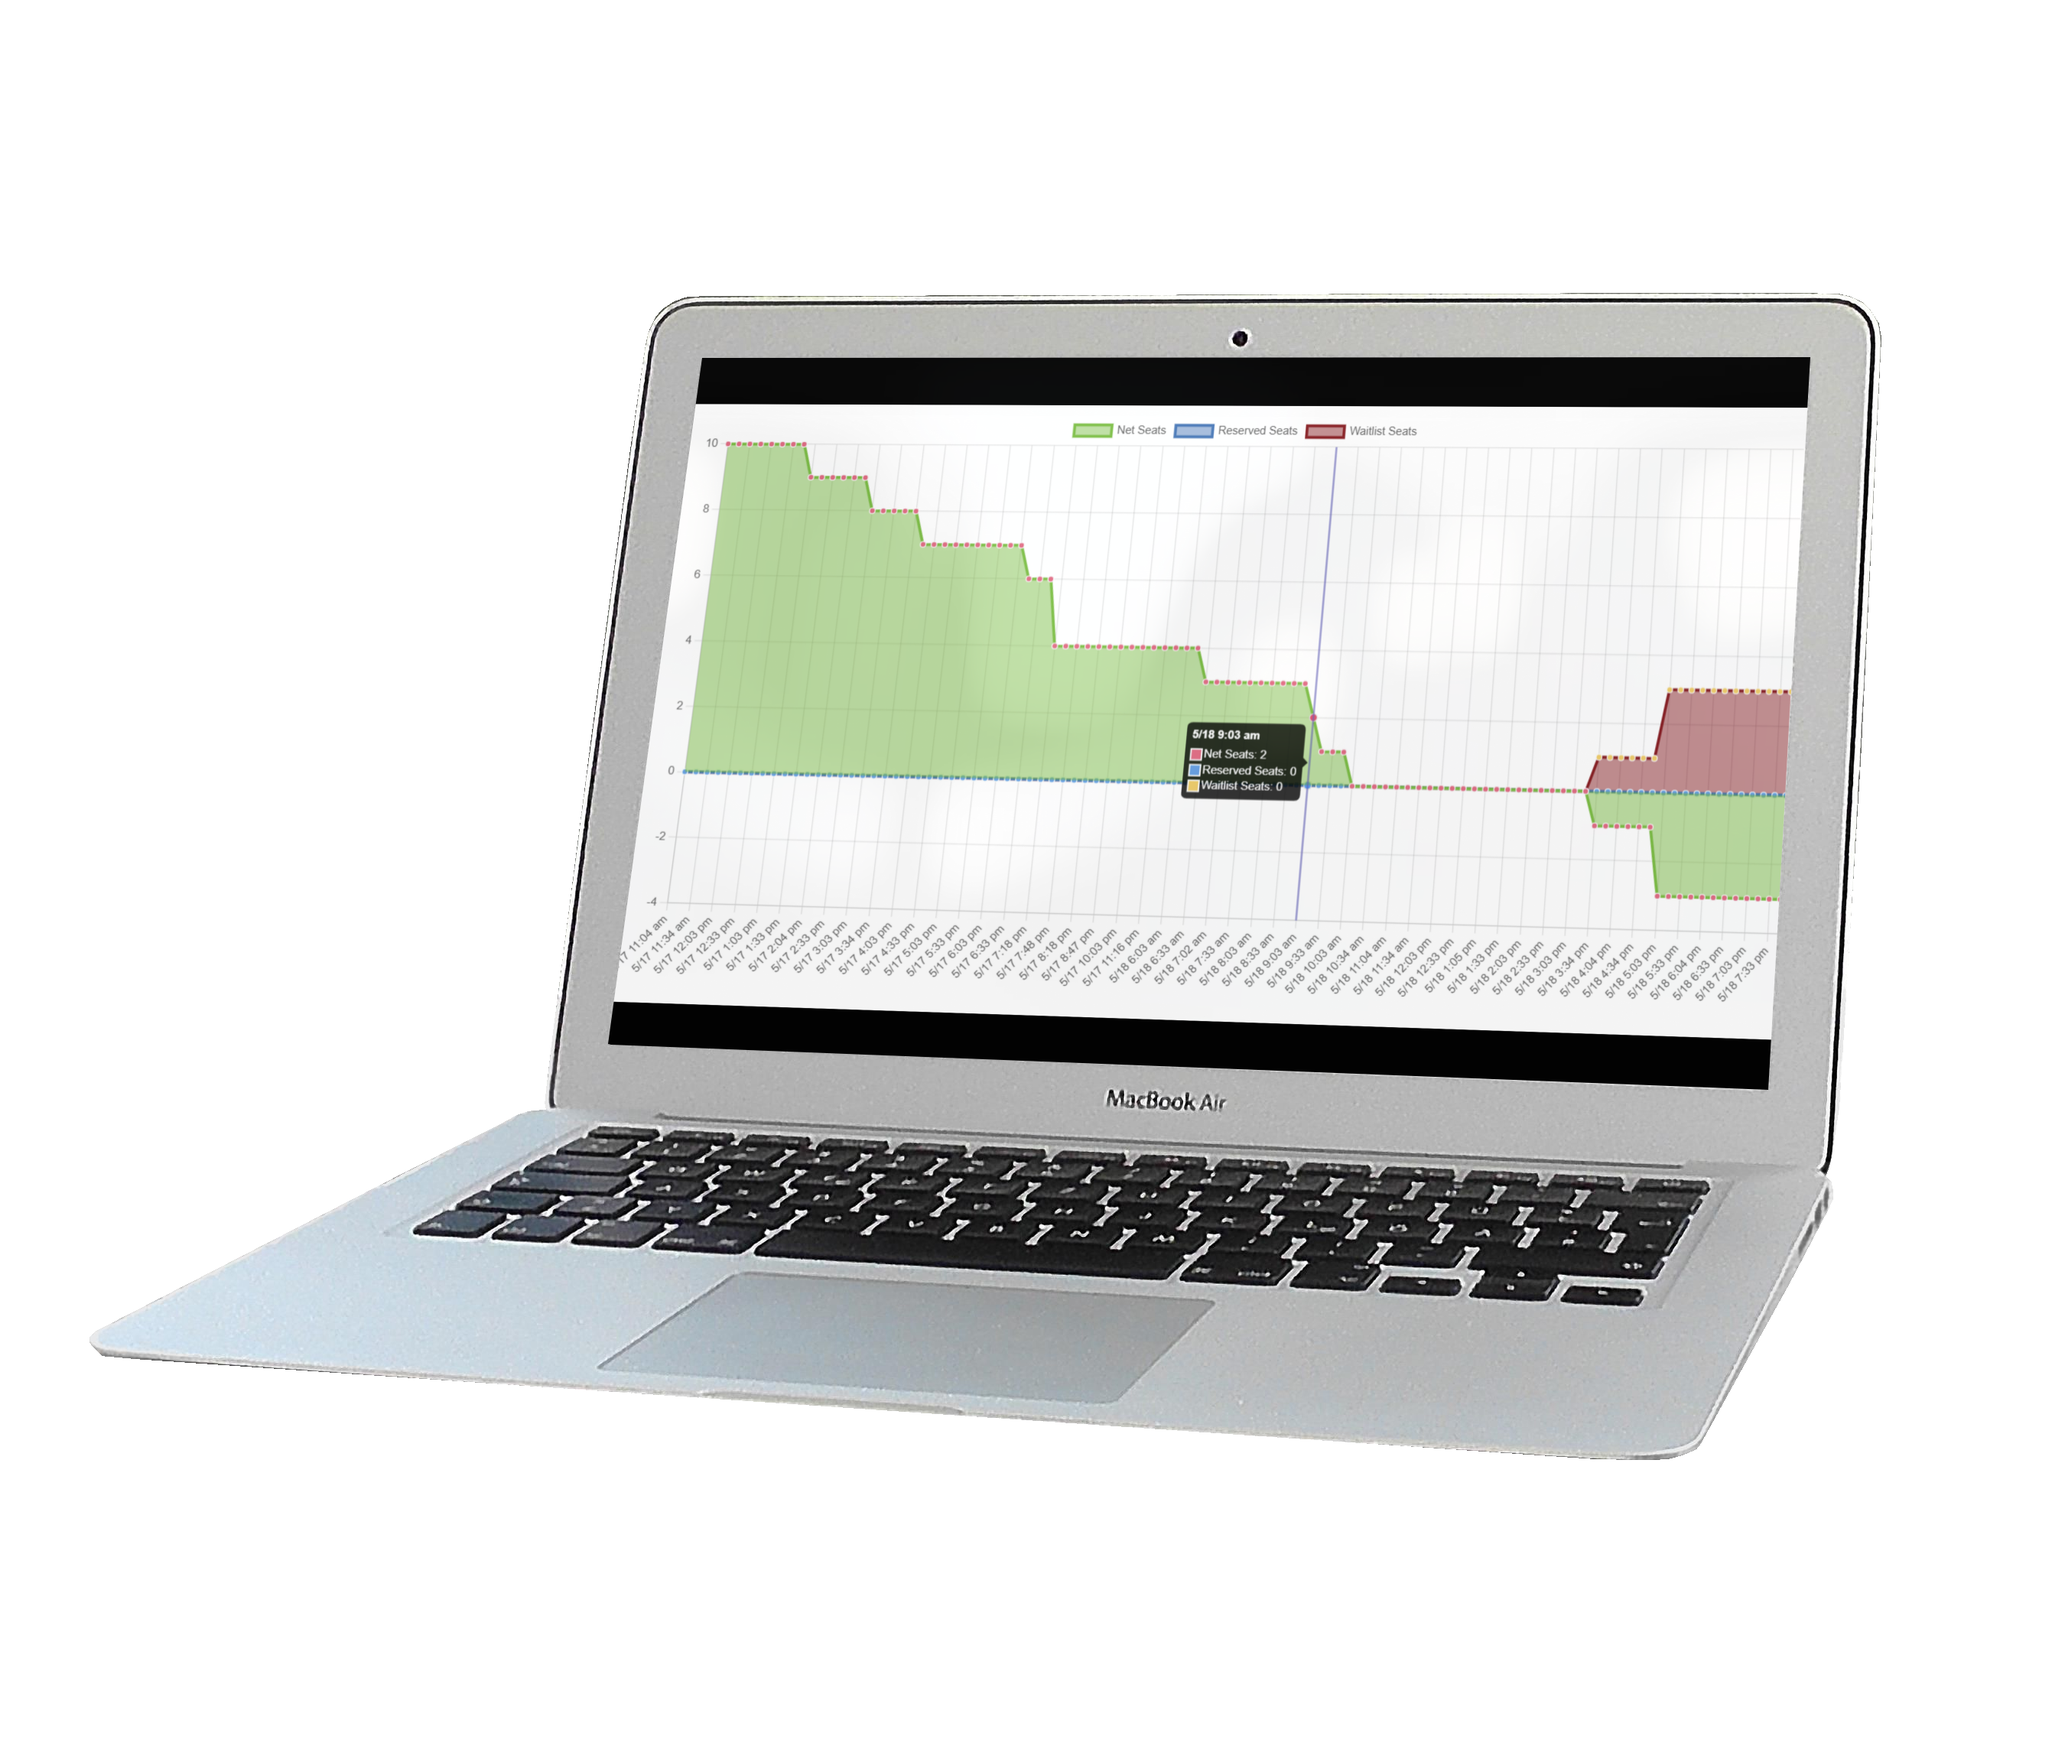
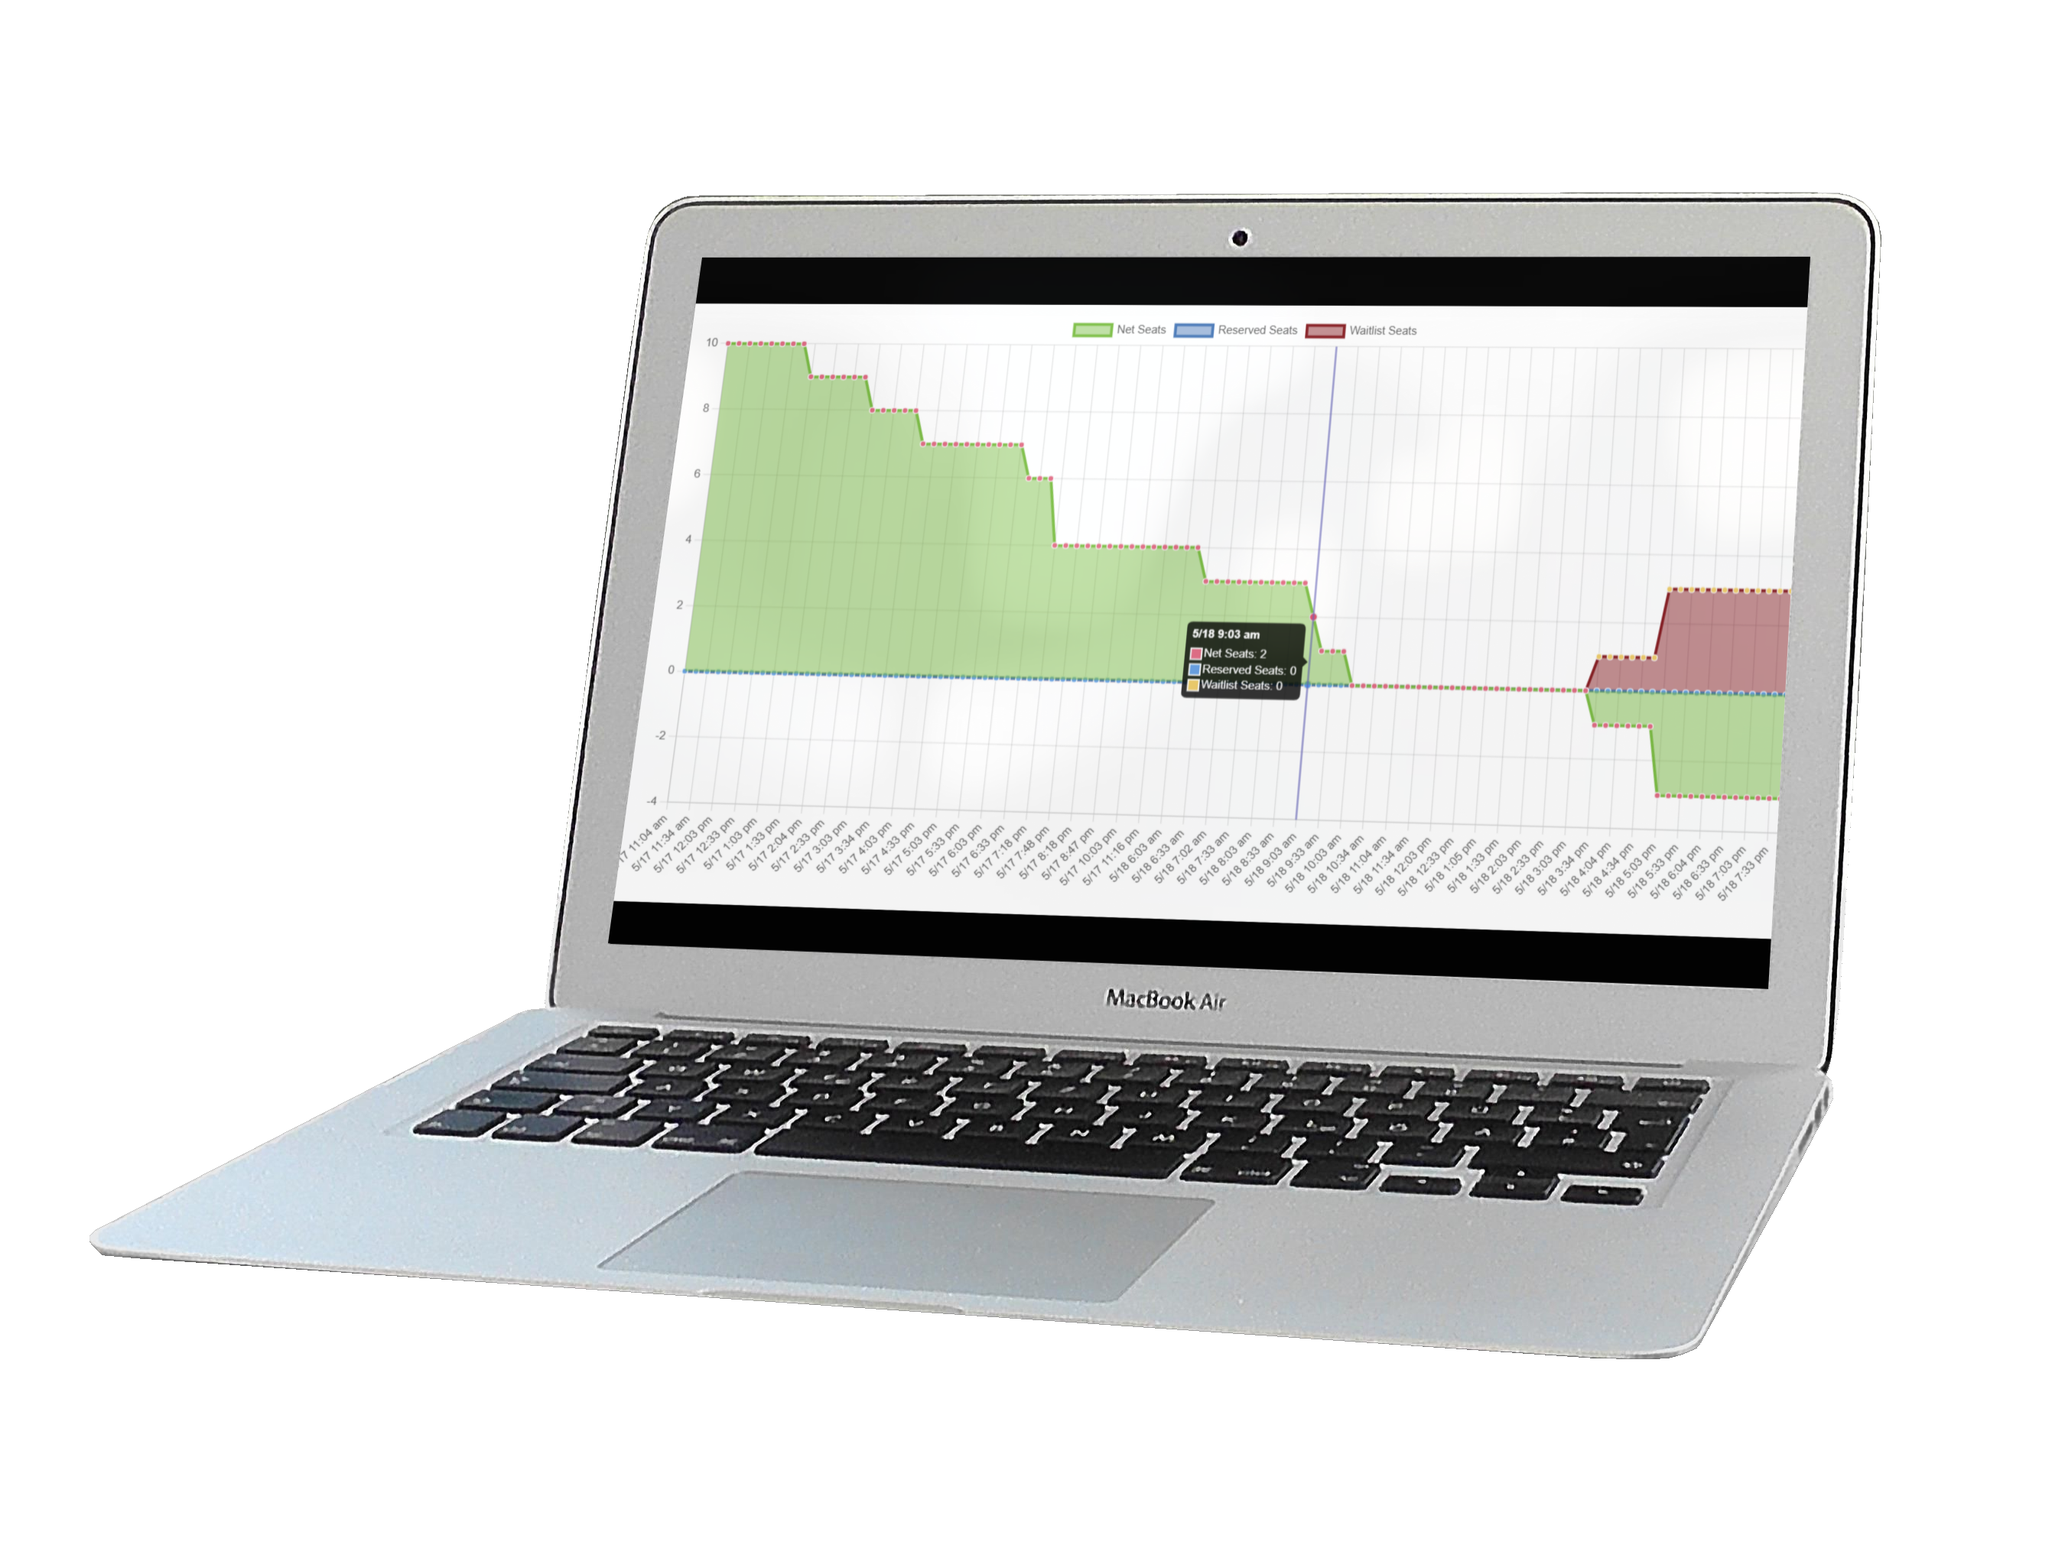
Reduce CLS by giving images explicit sizes/ratios

diff --git a/src/app/components/navbar/navbar.component.html b/src/app/components/navbar/navbar.component.html
@@ -5,7 +5,7 @@
 				<app-open-sidebar-button (onShow)="showOverlayEvent.emit()"></app-open-sidebar-button>
 
 				<a routerLink="/home" class="flex mr-4">
-					<img src="assets/home-icon.svg" class="mr-3 h-8" alt="Logo"/>
+					<img src="assets/home-icon.svg" class="mr-3 w-6 h-8" alt="Logo"/>
 					<span class="self-center text-lg sm:text-2xl font-semibold whitespace-nowrap dark:text-white">UC Davis API</span>
 				</a>
 

diff --git a/src/app/home/home.component.html b/src/app/home/home.component.html
@@ -21,7 +21,7 @@
 		</div>
 		<div class="hidden lg:mt-0 lg:col-span-5 lg:flex">
 			<img
-				class="drop-shadow-2xl shadow-gray-700"
+				class="aspect-[4/3] drop-shadow-2xl shadow-gray-700"
 				src="assets/mockup.png"
 				alt="mockup"
 			>
